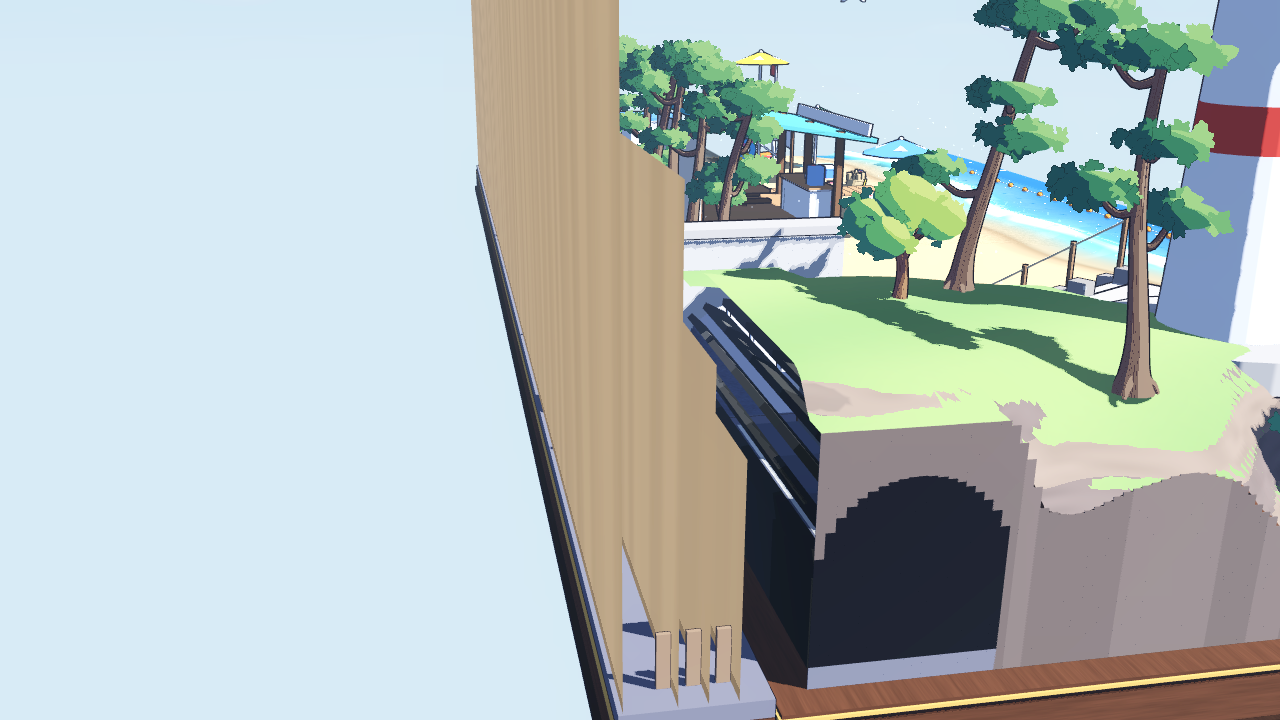
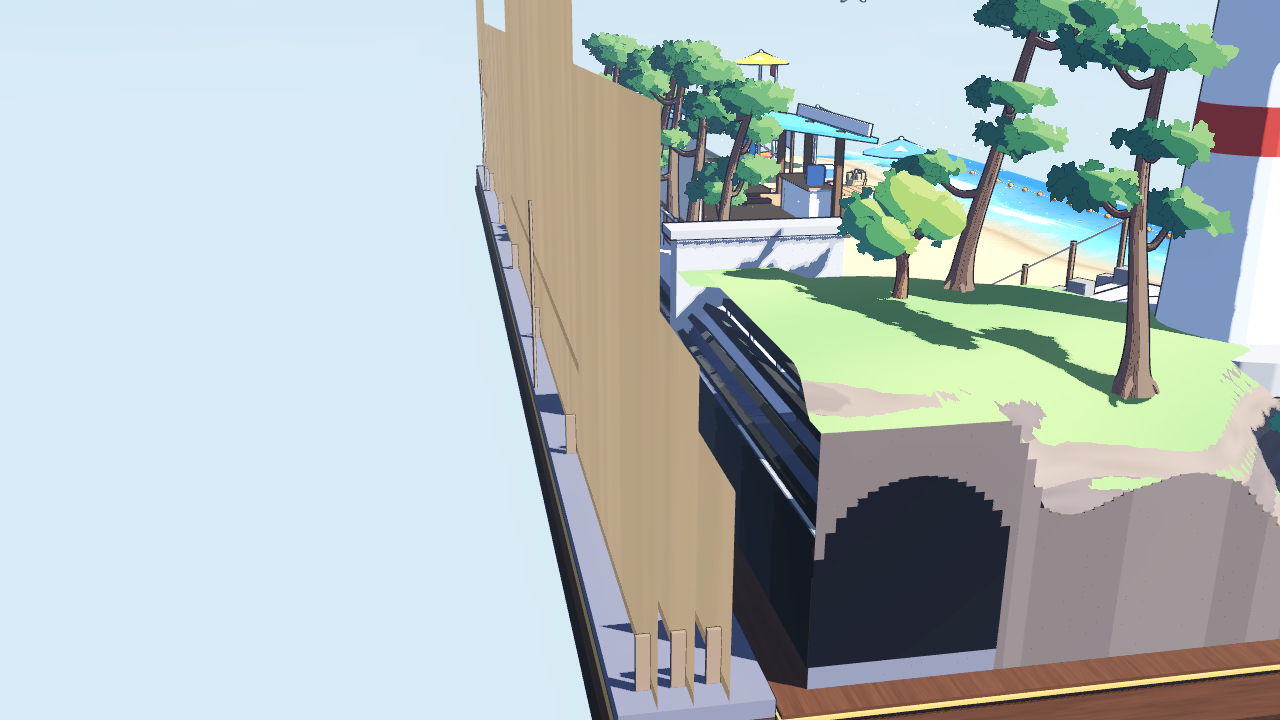
Backscene: paint the flats in the scene's own style
The first flats were plain 2D silhouettes and did not match the rest.
Every flat is now built from round masses with their own normals (cloud
puffs stacked into towers, tree clumps covering the hills and filling
the town, mountains with rounded summits, uneven slopes and gullies),
lit by the scene's sun in the same four flat tones as the trees, with
same-hue darker bands where masses overlap. The sky board is gone so
the real sky shows behind; the clouds hang on rods.

Claude-Session: https://claude.ai/code/session_01JuNQs8VxyuqxoqKQNTs1C5

diff --git a/docs/konbini-diorama/README.md b/docs/konbini-diorama/README.md
@@ -82,7 +82,7 @@
 - ไม่มีรอยต่อ ถนน กำแพง และราวกั้นวางยาวชิ้นเดียวตั้งแต่ปากอุโมงค์ถึงปลายหาด ทะเลกับน้ำซัดหาดเป็นผิวเดียวคลุมทั้งสองครึ่ง แนวน้ำและจังหวะคลื่นเดียวกัน หน้าตัดตรงรอยต่อถูกตัดออก แนวทุ่นเขตว่ายน้ำเป็นเส้นเดียวยาวต่อเนื่องจากหน้าแหลมถึงปลายหาด
 - แต่ละบล็อกยังสร้างด้วยโค้ดเดิมในพิกัดของตัวเอง (โหมด `joined`) ใต้โหนดที่เลื่อนไปครึ่งของมัน บล็อกเดี่ยวยังเปิดแยกได้เหมือนเดิม
 - กล้องเลื่อนและซูมออกได้ไกลขึ้นให้พอกับความยาว
-- ฉากหลังหลอกตา (`scripts/konbini_backdrop.gd`, `shaders/konbini_flat.gdshader`): แผ่นบางๆ ทาสีตั้งเรียงกันบนชั้นที่ต่อออกไปด้านหลังฐาน จากหน้าไปหลังคือ เมืองริมทะเลบนเนินเตี้ย เนินมีต้นสน ภูเขาสีฟ้า เมฆก้อนใหญ่ และแผ่นท้องฟ้า ยิ่งอยู่หลังยิ่งเตี้ยและจางเข้าหาสีฟ้า (forced perspective) ห่างกันแค่ไม่กี่สิบเซนติเมตรแต่ดูไกลเป็นกิโล มองจากด้านข้างจะเห็นว่าเป็นแค่แผ่นไม้อัดมีขาค้ำ
+- ฉากหลังหลอกตา (`scripts/konbini_backdrop.gd`, `shaders/konbini_flat.gdshader`): แผ่นบางๆ ทาสีตั้งเรียงกันบนชั้นที่ต่อออกไปด้านหลังฐาน จากหน้าไปหลังคือ เมืองริมทะเลบนเนินเตี้ยแทรกด้วยพุ่มไม้ เนินที่ปกคลุมด้วยพุ่มไม้กลมๆ ภูเขาสีฟ้า และเมฆก้อนใหญ่สองก้อนที่ห้อยบนก้านไม้ ทุกแผ่นลงสีด้วยแสงแดดทิศเดียวกับฉากเป็นโทนสีเรียบแบบต้นไม้ในฉาก ยิ่งอยู่หลังยิ่งจางเข้าหาสีฟ้า (forced perspective) และใช้ท้องฟ้าจริงเป็นฉากหลังจึงไม่มีขอบแผ่นตัดกับฟ้า ห่างกันแค่ไม่กี่สิบเซนติเมตรแต่ดูไกลเป็นกิโล มองจากด้านข้างจะเห็นว่าเป็นแค่แผ่นไม้อัดมีขาค้ำ
 
 ![ทั้งชายฝั่ง](coast-view-1.png)
 ![รอยต่อระหว่างแหลมกับหาด](coast-view-4.png)

diff --git a/.claude/skills/godot-diorama-scene/references/atmosphere.md b/.claude/skills/godot-diorama-scene/references/atmosphere.md
@@ -71,8 +71,14 @@ dictionary:
 
 For a far view behind a diorama, do not model distance: stand thin painted flats on a shelf added to the
 back of the plinth (`scripts/konbini_backdrop.gd`, `shaders/konbini_flat.gdshader`), like a stage or a model
-railway backscene. Back to front: a sky board, clouds, mountains, wooded hills, a town. Each flat is a quad
-whose shader cuts out a silhouette with an ink edge and paints flat cel tones; the farther back, the shorter
-and the more it fades to the sky colour (`haze`). They stand only 0.3 m apart. The backs are plain plywood
-with struts, so the trick shows from the side, which is part of the charm. The coast scene has one, with a
-camera preset round the side.
+railway backscene. Back to front: summer clouds hung on rods, mountains, wooded hills, a town. They stand
+only 0.35 m apart; the farther back, the more each fades toward the sky colour (`haze`). The backs are plain
+plywood with struts, so the trick shows from the side, which the user liked as a concept.
+
+The first version was rejected: "the concept is cool but the quality isn't there and it doesn't match the
+style". It used flat 2D silhouettes (a gradient sky board with a hard top edge, smooth ridgelines, boxes
+for houses, a cloud as one blob). What fixed it: paint every flat out of round masses with their own
+normals (cloud puffs, tree clumps, rounded mountain faces with gullies), light them with the scene's own sun
+(`sun_dir`) in the same four flat tones as the trees, mark overlaps with a darker band of the same hue
+instead of black ink, and let the real sky show behind (no sky board). Mountain peaks need rounded summits,
+uneven slopes and notched skylines, or they read as cones.
